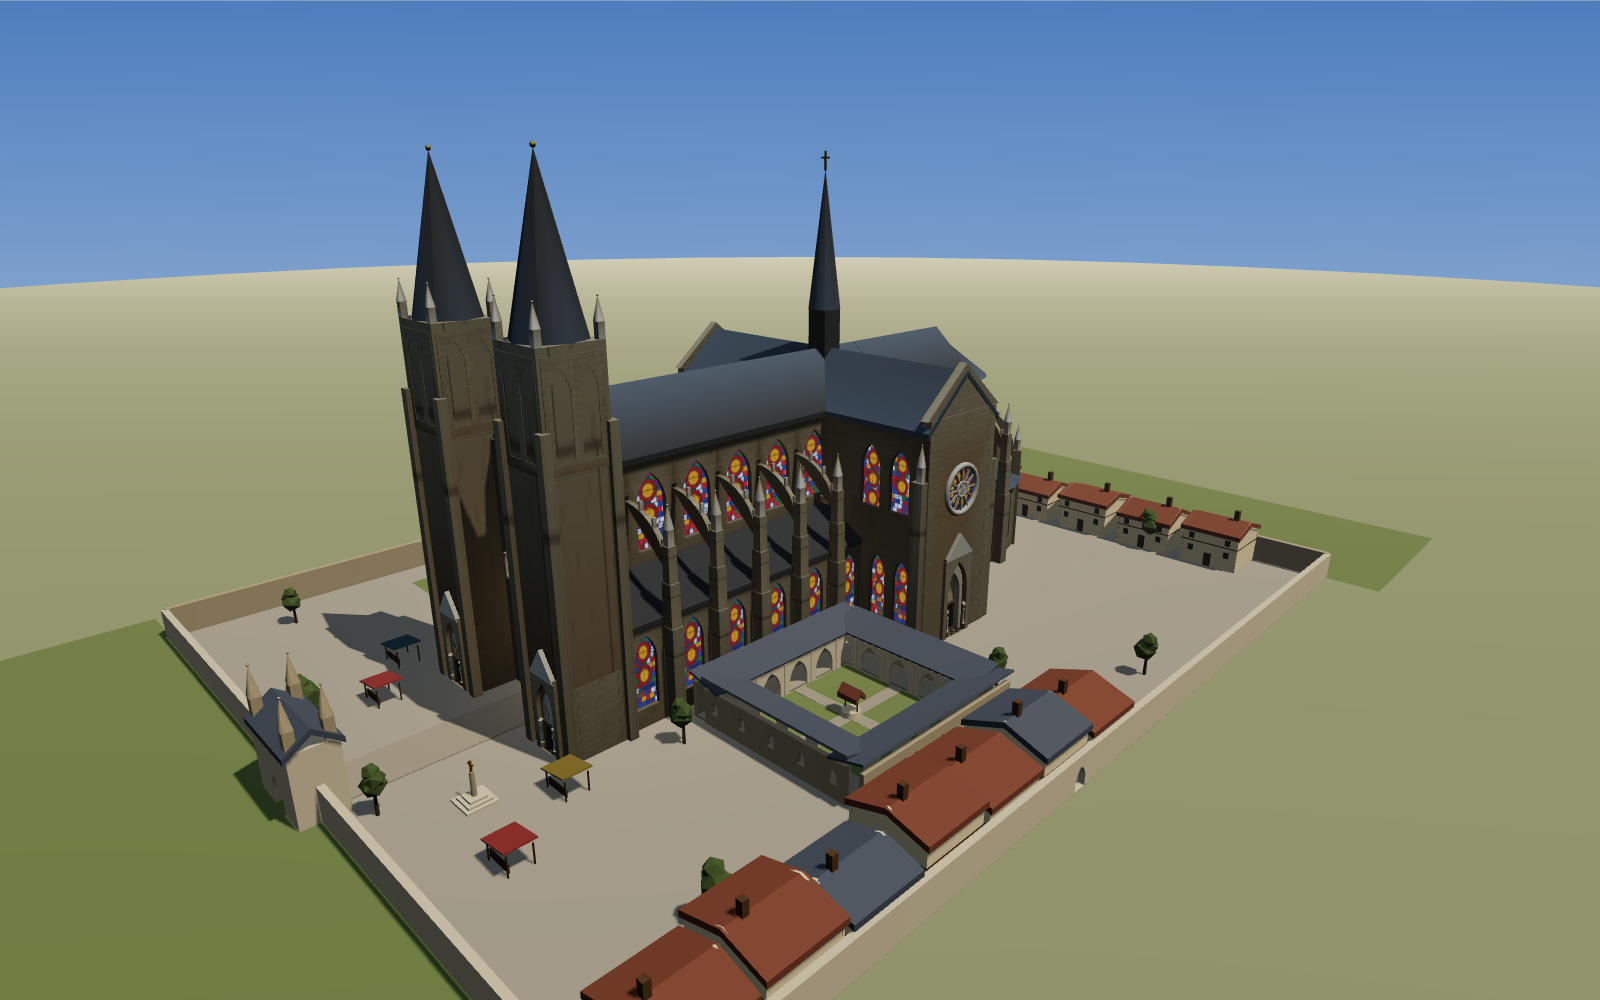
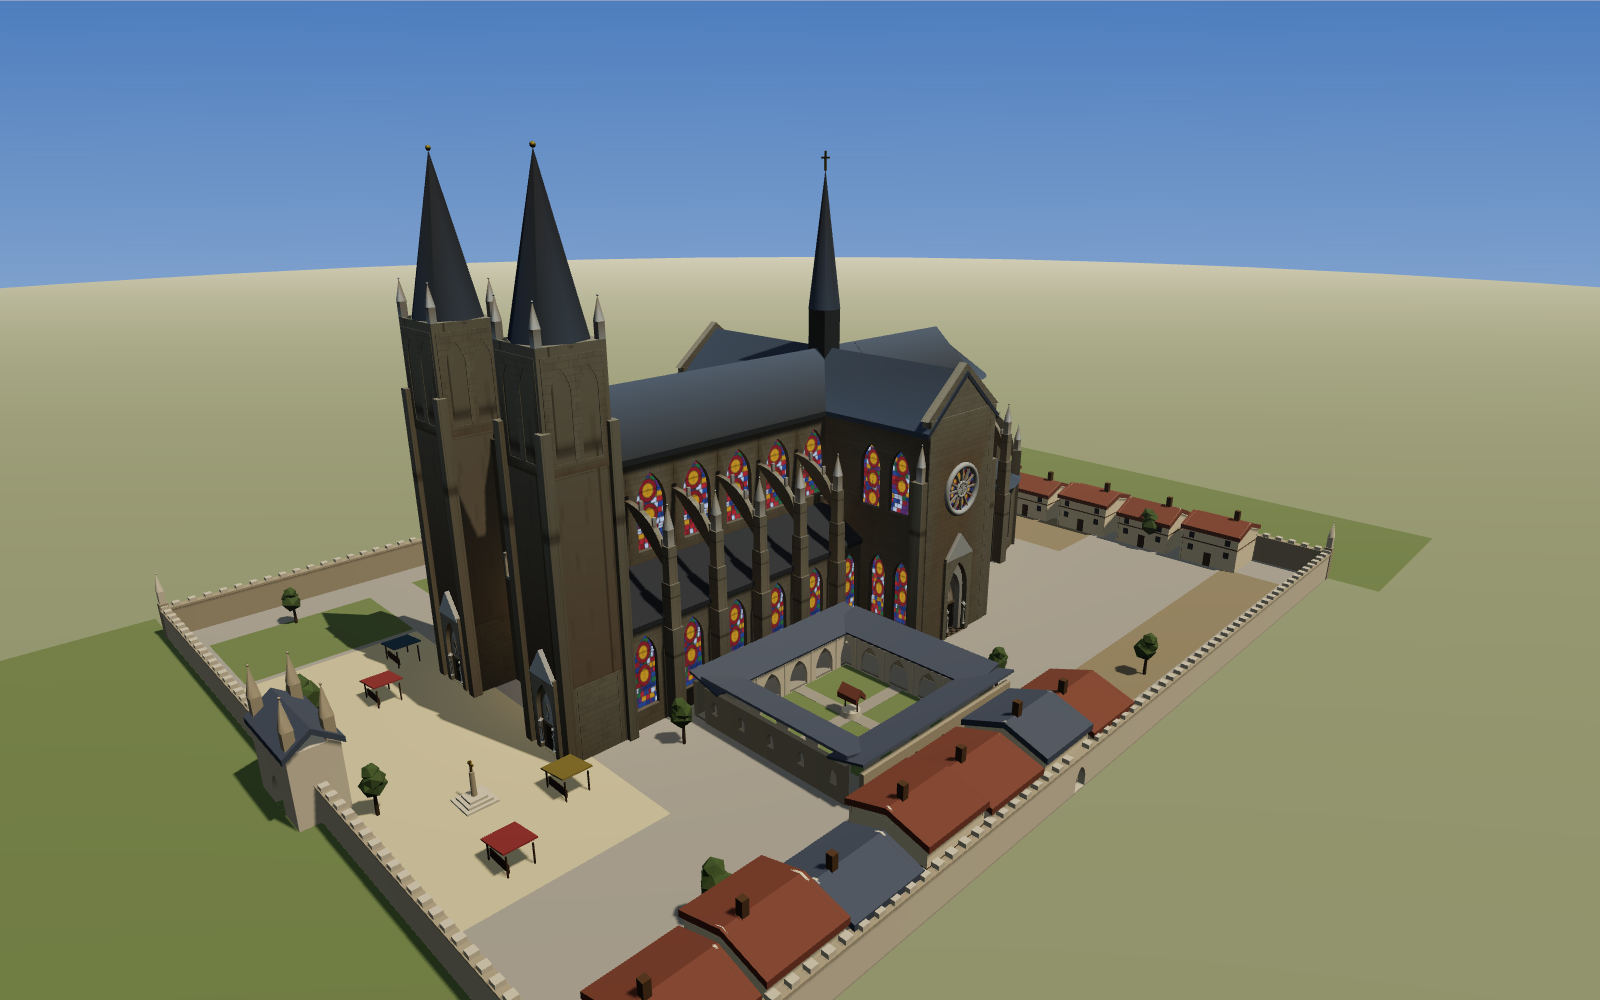
领地细化：墙头收口 + 院内地面分级
- 围墙加压顶石与垛口，跳过门洞/便门/门楼；四角加小塔楼收头
- 院内把一整块灰广场拆成 前庭石板 / 草地 / 压实土 三档，
  叠 2-6 cm 薄平面（noBake + buildSkip），z-fight 严格档仍 0
- 重拍 docs/overview

diff --git a/src/town.js b/src/town.js
@@ -39,6 +39,8 @@ function townMaterials() {
     wood: M('#4a3320', 0.8),
     grass: M('#6d7c4c', 1),
     path: M('#948e80', 1),
+    paving: M('#c4b690', 1),     // 前庭石板
+    earth: M('#8a7d62', 1),      // 压实土
     grave: M('#9a9384'),
     tree: M('#4d5f36', 1),
     trunk: M('#4a3a28'),
@@ -57,6 +59,20 @@ function solid(geo, mat, x, y, z, ry = 0) {
   m.castShadow = m.receiveShadow = true;
   m.userData.buildSkip = true;
   return m;
+}
+
+// 墙头收口：压顶石 + 垤口。沿墙方向用世界坐标给（alongX 表示墙沿 x 延伸，否则沿 z）。
+function wallTop(g, mats, { alongX, cx, cz, len, wallH, wallT, gaps = [] }) {
+  const copeH = 0.16, copeD = wallT + 0.28;
+  g.add(solid(new THREE.BoxGeometry(alongX ? len : copeD, copeH, alongX ? copeD : len), mats.wallDark,
+    cx, wallH + copeH / 2 + 0.01, cz));
+  const mw = 0.9, mh = 0.5, pitch = 2.0, md = wallT + 0.05;
+  for (let t = -len / 2 + mw / 2; t <= len / 2 - mw / 2; t += pitch) {
+    const wp = alongX ? cx + t : cz + t;                 // 沿墙方向的世界坐标，用于跳开门洞/门楼
+    if (gaps.some(([a, b]) => wp > a && wp < b)) continue;
+    g.add(solid(new THREE.BoxGeometry(alongX ? mw : md, mh, alongX ? md : mw), mats.wall,
+      alongX ? cx + t : cx, wallH + copeH + mh / 2 + 0.01, alongX ? cz : cz + t));
+  }
 }
 
 // 领地围墙：四面墙，西面开正门、东面开殡门、南北各开一道便门
@@ -95,6 +111,20 @@ function buildWalls(mats) {
   for (const sx of [1, -1]) for (const sz of [1, -1]) {
     const pin = makePinnacle(mats.wallDark, 1.1);
     pin.position.set(sx * (GH_W / 2 - 0.7), GH_H, WZ + sz * (GH_D / 2 - 0.7));
+    pin.traverse((o) => { if (o.isMesh) o.userData.buildSkip = true; });
+    g.add(pin);
+  }
+
+  // 墙头收口：压顶石 + 垤口（跳过门洞与门楼），四角小塔楼
+  wallTop(g, mats, { alongX: true,  cx,     cz: WZ, len: spanX, wallH: WALL_H,         wallT: WALL_T, gaps: [[-5.6, 5.6]] });
+  wallTop(g, mats, { alongX: true,  cx,     cz: EZ, len: spanX, wallH: WALL_H + 0.02,  wallT: WALL_T, gaps: [[-2.2, 2.2]] });
+  wallTop(g, mats, { alongX: false, cx: SX, cz,     len: spanZ, wallH: WALL_H - 0.03,  wallT: WALL_T, gaps: [[18.5, 21.5]] });
+  wallTop(g, mats, { alongX: false, cx: NX, cz,     len: spanZ, wallH: WALL_H + 0.05,  wallT: WALL_T, gaps: [[-21.5, -18.5]] });
+  const cornerH = WALL_H + 1.0;
+  for (const [tx, tz] of [[SX, WZ], [SX, EZ], [NX, WZ], [NX, EZ]]) {
+    g.add(solid(new THREE.BoxGeometry(1.1, cornerH, 1.1), mats.wallDark, tx, cornerH / 2, tz));
+    const pin = makePinnacle(mats.wall, 0.8);
+    pin.position.set(tx, cornerH, tz);
     pin.traverse((o) => { if (o.isMesh) o.userData.buildSkip = true; });
     g.add(pin);
   }
@@ -312,11 +342,37 @@ function makeTree(mats, s, rnd, x, z, yew = false) {
   return g;
 }
 
-// 西前庭集市：市场十字 + 几处摊棚，以及从正门通向中门的石板路
+// 院内地面分级：把原来一整块灰广场，拆成 前庭石板 / 草地 / 压实土 几档。
+// 每档用薄平面叠在广场上（y 各差几厘米，避免共面），材质 noBake、网格 buildSkip。
+function buildGround(mats) {
+  const g = new THREE.Group();
+  const patch = (mat, w, d, x, z, y) => {
+    const m = new THREE.Mesh(new THREE.PlaneGeometry(w, d), mat);
+    m.rotation.x = -Math.PI / 2;
+    m.position.set(x, y, z);
+    m.receiveShadow = true;
+    m.userData.buildSkip = true;
+    g.add(m);
+  };
+  // 西前庭石板（正门到西立面，集市所在）
+  patch(mats.paving, 58, 24, 0, 65, 0.06);
+  // 教堂北侧草地（两段，让开耳堂横臂）
+  patch(mats.grass, 10, 38, -20, 27, 0.04);
+  patch(mats.grass, 10, 38, -20, -27, 0.04);
+  // 西北角草地（墓地与前庭之间）
+  patch(mats.grass, 15, 22, -37.5, 64, 0.04);
+  // 后殿东侧压实土院子
+  patch(mats.earth, 40, 14, 0, -45, 0.03);
+  // 南侧长条土院子（回廊与南墙之间）
+  patch(mats.earth, 9, 125, 47.5, 12.5, 0.03);
+  // 北侧步道（前庭 → 北侧草地）
+  patch(mats.paving, 2, 42, -17.5, 31, 0.06);
+  return g;
+}
+
+// 西前庭集市：市场十字 + 几处摊棚（正门到西立面的石板路现由 buildGround 的西前庭覆盖）
 function buildMarket(mats, rnd) {
   const g = new THREE.Group();
-  // 石板路：正门（z=WZ）到西立面（z≈50）
-  g.add(solid(new THREE.BoxGeometry(7, 0.12, WZ - 50), mats.path, 0, 0.06, (WZ + 50) / 2));
   // 市场十字：三级台座 + 石柱 + 十字
   const mx = 13, mz = 66;
   for (let i = 0; i < 3; i++) {
@@ -355,6 +411,7 @@ export function buildTown(labels = []) {
   const root = new THREE.Group();
 
   root.add(buildWalls(mats));
+  root.add(buildGround(mats));
   // 围墙之外是田野，别让灰色广场一直铺到天边（广场是主场景里铺好的，这里只盖外面）
   const outerGrass = (w, d, x, z) => {
     const m = new THREE.Mesh(new THREE.PlaneGeometry(w, d), mats.grass);
